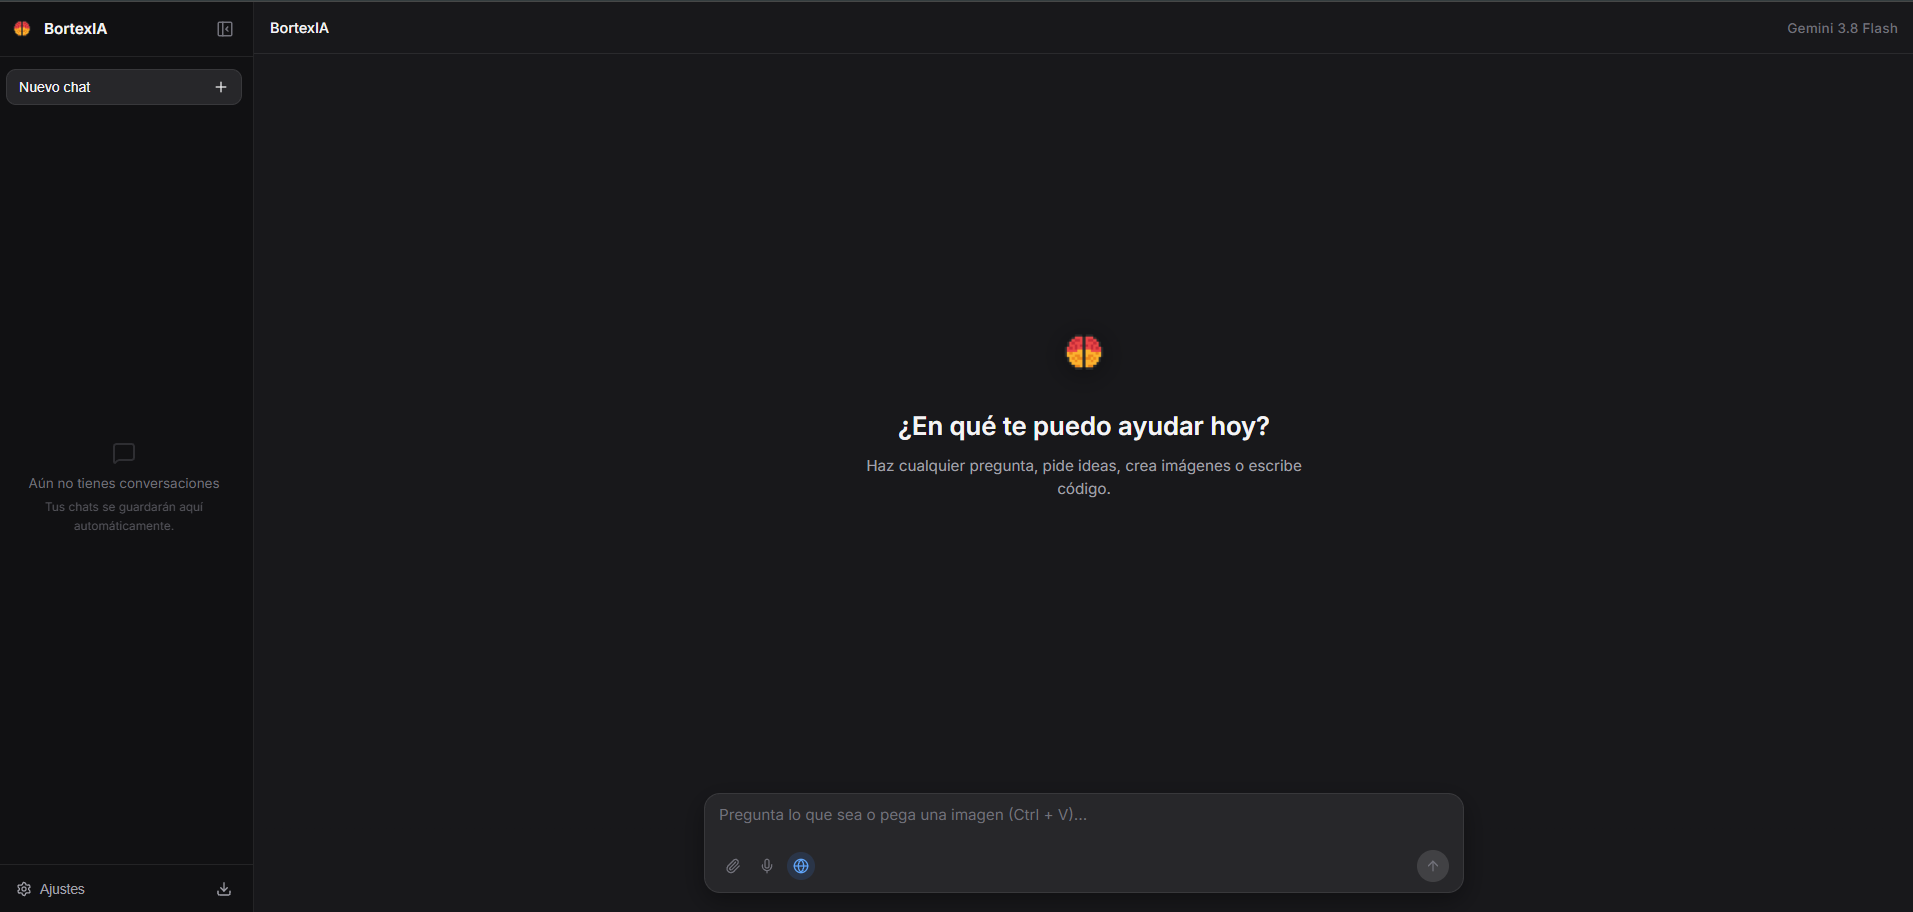
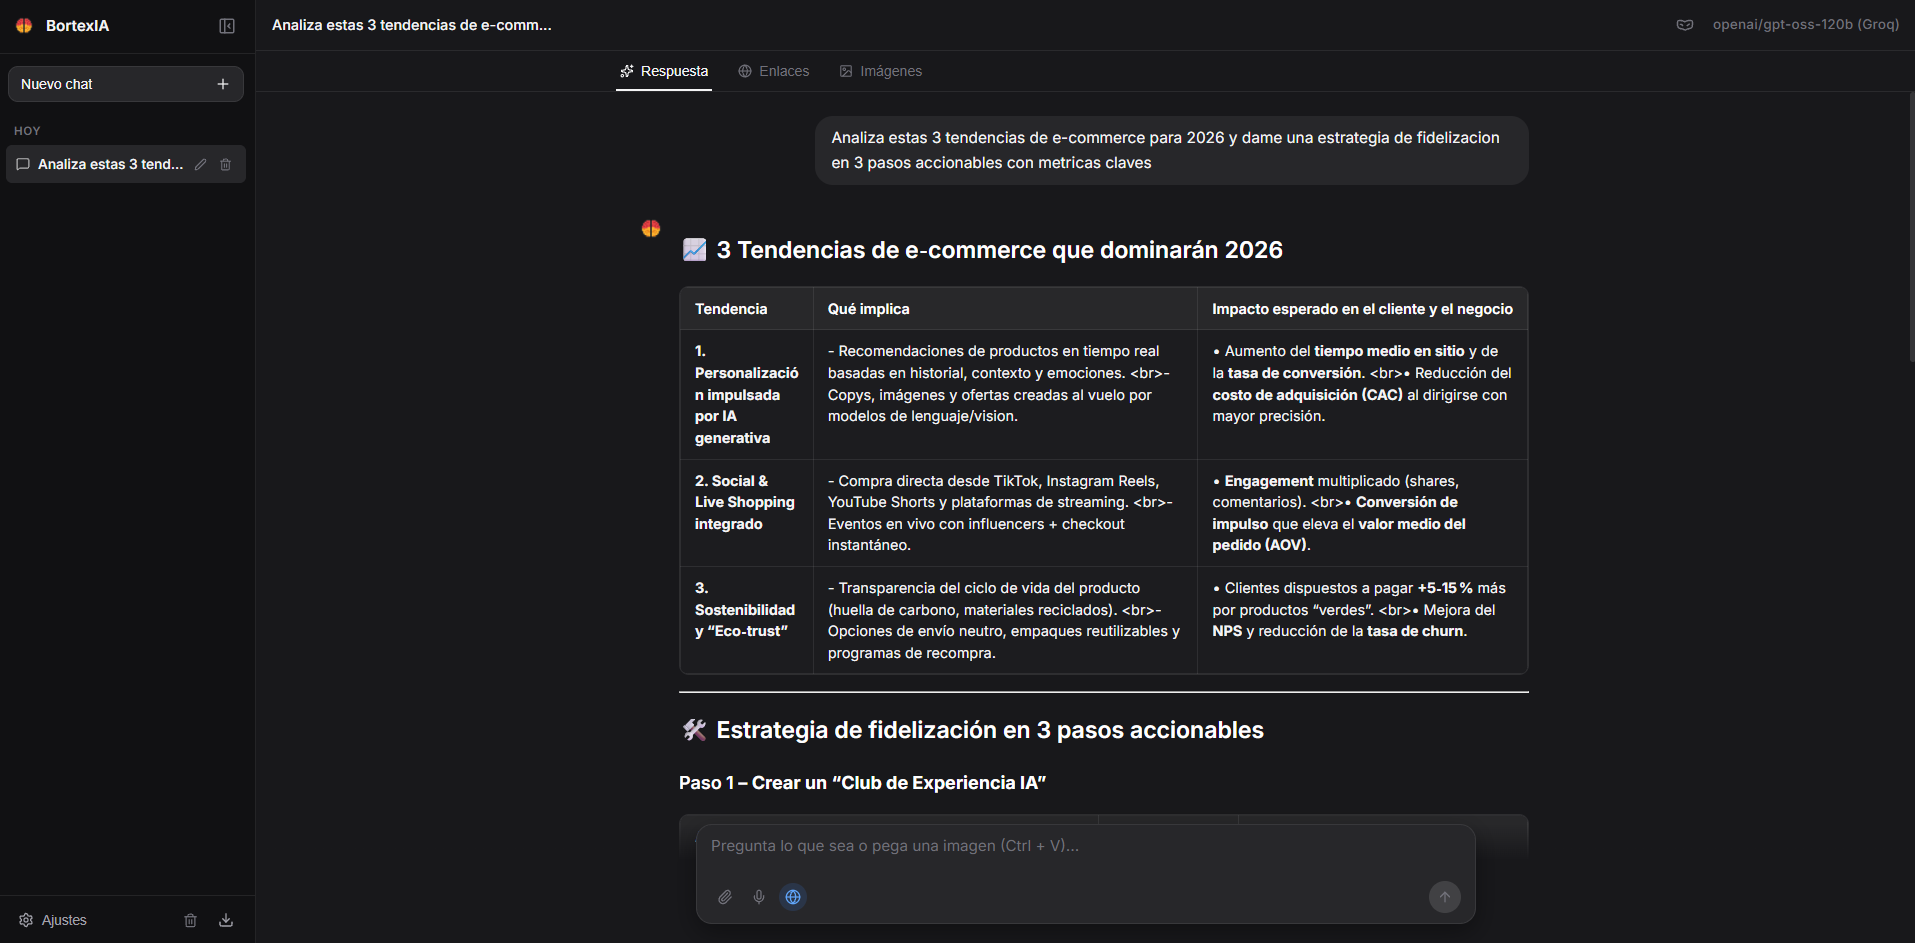
style: optimizacion integral de escala, safe-area insets y experiencia tactil en mobile

diff --git a/src/index.css b/src/index.css
@@ -778,6 +778,7 @@ html, body, #root {
   color: #fff;
   display: -webkit-box;
   -webkit-line-clamp: 2;
+  line-clamp: 2;
   -webkit-box-orient: vertical;
   overflow: hidden;
 }
@@ -1788,12 +1789,17 @@ html, body, #root {
     align-items: center;
     justify-content: center;
     color: var(--text-secondary);
+    width: 32px;
+    height: 32px;
   }
+
   .mobile-new-chat-btn {
     display: flex !important;
     align-items: center;
     justify-content: center;
     color: var(--text-secondary);
+    width: 32px;
+    height: 32px;
   }
 
   /* Drawer flotante tipo app nativa */
@@ -1832,58 +1838,181 @@ html, body, #root {
 
   /* Top Bar en Mobile */
   .top-bar {
-    height: 50px;
-    padding: 0 10px;
+    height: 48px;
+    padding: 0 8px;
   }
 
   .top-bar-left {
-    gap: 8px;
+    gap: 6px;
+    flex: 1;
+    min-width: 0;
   }
 
   .top-bar-title {
-    font-size: 0.88rem;
-    max-width: 170px;
+    font-size: 0.86rem;
+    max-width: calc(100vw - 195px);
+    overflow: hidden;
+    text-overflow: ellipsis;
+    white-space: nowrap;
   }
 
   .top-bar-right {
     display: flex;
     align-items: center;
-    gap: 8px;
+    gap: 6px;
+    flex-shrink: 0;
   }
 
   .top-bar-model-text {
-    font-size: 0.75rem;
+    font-size: 0.72rem;
+    max-width: 85px;
+    overflow: hidden;
+    text-overflow: ellipsis;
+    white-space: nowrap;
+  }
+
+  .incognito-toggle-btn {
+    width: 30px;
+    height: 30px;
+  }
+
+  /* Pestañas de Navegación en Mobile (Respuesta | Enlaces | Imágenes) */
+  .chat-tabs-bar {
+    padding: 0 8px;
+    overflow-x: auto;
+    -webkit-overflow-scrolling: touch;
+    scrollbar-width: none;
+  }
+
+  .chat-tabs-bar::-webkit-scrollbar {
+    display: none;
+  }
+
+  .chat-tabs-inner {
+    gap: 14px;
+    justify-content: flex-start;
+  }
+
+  .chat-tab-btn {
+    font-size: 0.82rem;
+    padding: 9px 2px 7px;
+    white-space: nowrap;
+    gap: 5px;
+  }
+
+  .tab-count-badge {
+    font-size: 0.68rem;
+    padding: 0 5px;
+  }
+
+  /* Vistas de Pestañas Enlaces e Imágenes en Mobile */
+  .tab-content-container {
+    padding: 12px 10px calc(115px + env(safe-area-inset-bottom, 10px));
+  }
+
+  .sources-tab-grid {
+    grid-template-columns: 1fr;
+    gap: 10px;
+  }
+
+  .source-tab-card {
+    padding: 12px 14px;
+  }
+
+  .source-title {
+    font-size: 0.88rem;
+  }
+
+  .images-tab-grid {
+    grid-template-columns: 1fr;
+    gap: 12px;
+  }
+
+  .image-tab-card img {
+    height: 180px;
   }
 
   /* Área de Mensajes en Mobile */
   .messages-container {
-    padding: 10px 0 120px 0;
+    padding: 10px 0 calc(115px + env(safe-area-inset-bottom, 10px)) 0;
   }
 
   .messages-inner {
-    padding: 0 12px;
+    padding: 0 10px;
     gap: 16px;
   }
 
+  .message-row {
+    gap: 8px;
+  }
+
   .user-bubble {
-    max-width: 88%;
-    padding: 8px 14px;
-    font-size: 0.92rem;
+    max-width: 90%;
+    padding: 8px 12px;
+    font-size: 0.9rem;
+    border-radius: 16px;
   }
 
   .assistant-body {
-    font-size: 0.92rem;
-    line-height: 1.6;
+    font-size: 0.9rem;
+    line-height: 1.58;
   }
 
   .message-avatar {
     width: 24px;
     height: 24px;
+    margin-top: 2px;
+  }
+
+  /* Tablas y Bloques de Código en Mobile */
+  .table-responsive-wrapper {
+    margin: 12px 0;
+    border-radius: 8px;
+  }
+
+  .markdown-content th, 
+  .markdown-content td {
+    padding: 7px 10px;
+    font-size: 0.8rem;
+    line-height: 1.45;
+  }
+
+  .code-block-wrapper {
+    margin: 10px 0;
+    border-radius: 8px;
+  }
+
+  .code-header {
+    padding: 5px 10px;
+    font-size: 0.72rem;
+  }
+
+  .code-block-wrapper pre {
+    padding: 10px 12px;
+    font-size: 0.78rem;
+  }
+
+  /* Barra de acciones de cada mensaje en Mobile */
+  .message-action-bar {
+    gap: 6px;
+    margin-top: 8px;
+    padding-top: 6px;
+  }
+
+  .action-bar-btn {
+    width: 32px;
+    height: 32px;
+  }
+
+  .action-bar-source-badge {
+    font-size: 0.72rem;
+    padding: 2px 7px;
   }
 
   /* Pantalla de inicio en Mobile */
   .empty-state {
-    padding: 24px 12px;
+    padding: 24px 10px;
+    max-width: 92vw;
   }
 
   .empty-state-logo {
@@ -1894,6 +2023,7 @@ html, body, #root {
 
   .empty-state h1 {
     font-size: 1.25rem;
+    margin-bottom: 6px;
   }
 
   .empty-state p {
@@ -1912,7 +2042,7 @@ html, body, #root {
 
   /* Compositor en Mobile */
   .composer-wrapper {
-    padding: 0 10px 10px;
+    padding: 0 8px max(8px, env(safe-area-inset-bottom, 8px));
   }
 
   .composer-box {
@@ -1921,19 +2051,87 @@ html, body, #root {
   }
 
   .composer-textarea {
-    font-size: 0.9rem;
+    font-size: 16px; /* Evita zoom automático forzado en iOS Safari */
+    min-height: 24px;
   }
 
   .icon-action-btn {
+    width: 30px;
+    height: 30px;
     padding: 5px;
+  }
+
+  .send-btn {
+    width: 32px;
+    height: 32px;
+  }
+
+  /* Previsualización imagen adjunta en Mobile */
+  .attached-thumb-box {
+    width: 38px;
+    height: 38px;
+  }
+
+  .attached-preview {
+    padding-bottom: 6px;
+    margin-bottom: 6px;
   }
 
   /* Modal de Ajustes en Mobile */
   .modal-card {
-    padding: 18px;
-    max-width: 95vw;
+    padding: 16px 14px;
+    max-width: 94vw;
     max-height: 86vh;
     overflow-y: auto;
     border-radius: 14px;
+  }
+
+  .modal-actions {
+    gap: 8px;
+  }
+
+  .modal-actions button {
+    padding: 8px 14px;
+    font-size: 0.84rem;
+  }
+
+  /* Modal de Confirmación en Mobile */
+  .confirm-modal-card {
+    max-width: 92vw;
+    padding: 18px 14px;
+    border-radius: 14px;
+  }
+
+  .confirm-modal-header {
+    margin-bottom: 12px;
+  }
+
+  .confirm-modal-icon-badge {
+    width: 38px;
+    height: 38px;
+    border-radius: 10px;
+  }
+
+  .confirm-modal-body h3 {
+    font-size: 1.05rem;
+    margin-bottom: 6px;
+  }
+
+  .confirm-modal-body p {
+    font-size: 0.84rem;
+    line-height: 1.45;
+  }
+
+  .confirm-modal-actions {
+    margin-top: 16px;
+    padding-top: 12px;
+    gap: 8px;
+  }
+
+  .confirm-modal-actions button {
+    flex: 1;
+    padding: 10px 12px;
+    font-size: 0.85rem;
+    justify-content: center;
   }
 }

diff --git a/README.md b/README.md
@@ -24,7 +24,14 @@
 ## 📸 Galería & Vista Previa
 
 <div align="center">
-  <img src="public/screenshots/Screenshot_5.png" alt="Vista Previa de BortexIA" width="100%" style="border-radius: 14px; box-shadow: 0 12px 40px rgba(0, 0, 0, 0.6); border: 1px solid rgba(255, 255, 255, 0.1);">
+  <p align="center">
+    <img src="public/screenshots/Screenshot_5.png" alt="Vista Previa de BortexIA - Captura 1" width="49%" style="border-radius: 10px; border: 1px solid rgba(255, 255, 255, 0.1);" />
+    <img src="public/screenshots/Screenshot_6.png" alt="Vista Previa de BortexIA - Captura 2" width="49%" style="border-radius: 10px; border: 1px solid rgba(255, 255, 255, 0.1);" />
+  </p>
+  <p align="center">
+    <img src="public/screenshots/Screenshot_7.png" alt="Vista Previa de BortexIA - Captura 3" width="49%" style="border-radius: 10px; border: 1px solid rgba(255, 255, 255, 0.1);" />
+    <img src="public/screenshots/Screenshot_8.png" alt="Vista Previa de BortexIA - Captura 4" width="49%" style="border-radius: 10px; border: 1px solid rgba(255, 255, 255, 0.1);" />
+  </p>
 </div>
 
 ---
